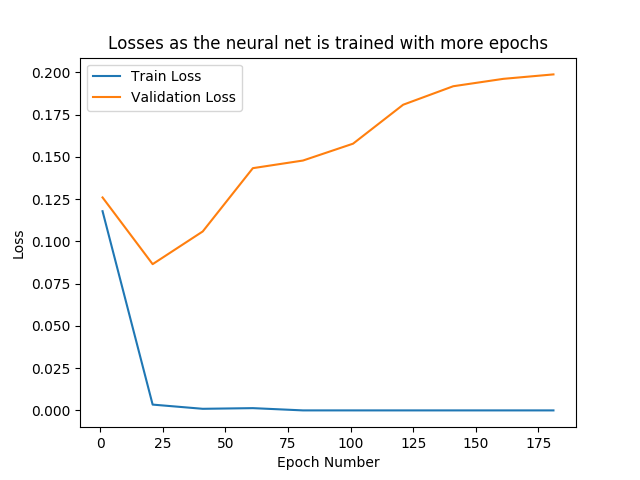
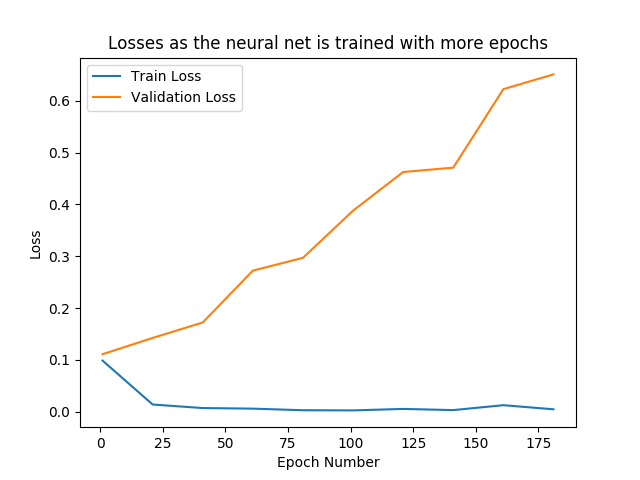
Reproducing increasing perturbed accuracy results by averaging 5 classifiers that are overfitted

diff --git a/new/fgsm_original.py b/new/fgsm_original.py
@@ -5,19 +5,6 @@ import matplotlib.pyplot as plt
 from base_classifier import build_network, calc_loss, evaluation
 from tensorflow.examples.tutorials.mnist import input_data as mnist_data
 
-# Average perturbed accuracy is going up. 
-# Next: Try overfitting more so normal accuracy doesn't go up.
-# Epoch num: 1, perturbed accuracy: 0.3143, normal accuracy: 0.9541 
-# Epoch num: 21, perturbed accuracy: 0.2626, normal accuracy: 0.9768 
-# Epoch num: 41, perturbed accuracy: 0.354, normal accuracy: 0.9789 
-# Epoch num: 61, perturbed accuracy: 0.4321, normal accuracy: 0.9816 
-# Epoch num: 81, perturbed accuracy: 0.4955, normal accuracy: 0.9818 
-# Epoch num: 101, perturbed accuracy: 0.5159, normal accuracy: 0.9829 
-# Epoch num: 121, perturbed accuracy: 0.5196, normal accuracy: 0.983 
-# Epoch num: 141, perturbed accuracy: 0.5262, normal accuracy: 0.9836 
-# Epoch num: 161, perturbed accuracy: 0.5267, normal accuracy: 0.9844 
-# Epoch num: 181, perturbed accuracy: 0.5273, normal accuracy: 0.9844 
-
 # Importing MNIST datasets
 mnist = mnist_data.read_data_sets('MNIST_data', one_hot=True)
 
@@ -78,20 +65,29 @@ def demonstrate_attack_error_rate(epoch_num_start, epoch_num_end, stride, total_
     perturbed_accuracies = []
     normal_accuracies = []
 
-    total_perturbed_accuracy = 0
-    total_normal_accuracy = 0
-
     for epoch_num in range(epoch_num_start, epoch_num_end, stride):
         epoch_nums.append(epoch_num)
+        total_perturbed_accuracy = 0
+        total_normal_accuracy = 0
+
         for round_number in range(total_round_num):
             perturbed_accuracy, normal_accuracy, _ = accuracy_after_fgsm_attack(sample_images, sample_labels, epoch_num, round_number)
+            print("Epoch num: {0}, Round num: {1}, perturbed accuracy: {2}, normal accuracy: {3} ".format
+                (epoch_num, round_number, perturbed_accuracy, normal_accuracy))
+
             total_perturbed_accuracy += perturbed_accuracy
             total_normal_accuracy += normal_accuracy
+
         perturbed_accuracies.append(total_perturbed_accuracy * 1.0 / total_round_num)
         normal_accuracies.append(total_normal_accuracy * 1.0 / total_round_num)
-
-        print("Epoch num: {0}, perturbed accuracy: {1}, normal accuracy: {2} ".format(epoch_num, perturbed_accuracy, normal_accuracy))
-
+        print("Average Summary Epoch num: {0}, perturbed accuracy: {1}, normal accuracy: {2} ".format
+            (
+                epoch_num,
+                total_perturbed_accuracy * 1.0 / total_round_num,
+                total_normal_accuracy * 1.0 / total_round_num
+            )
+        )
+        
     plt.plot(epoch_nums, perturbed_accuracies)
     plt.plot(epoch_nums, normal_accuracies)
     plt.title('FGSM Attack on MNIST Classifier With Various Epoch')
@@ -110,16 +106,6 @@ def demonstrate_zeros_in_perturbation(epoch_num_start, epoch_num_end, stride, to
     zero_elements_num_in_pertubation_list = []
 
     for epoch_num in range(epoch_num_start, epoch_num_end, stride):
-
-        tf.reset_default_graph()
-
-        # Building the graph
-        x = tf.placeholder(tf.float64, [None, input_dimension], name="input")
-        y = tf.placeholder(tf.float64, [None, output_dimension], name="labels")
-        z3, y_, _ = build_network(x, l1, l2, l3)
-        loss = calc_loss(z3, y)
-        accuracy = evaluation(y, y_)
-
         zero_elements_num_in_pertubation = 0
         epoch_nums.append(epoch_num)
         for round_number in range(total_round_num):
@@ -137,5 +123,5 @@ def demonstrate_zeros_in_perturbation(epoch_num_start, epoch_num_end, stride, to
     plt.ylabel('Number of zero values in Perturbation matrix')
     plt.show()
 
-demonstrate_attack_error_rate(101, 200, 20, 5)
-#demonstrate_zeros_in_perturbation()
+#demonstrate_attack_error_rate(101, 200, 20, 5)
+demonstrate_zeros_in_perturbation(101, 200, 20, 5)

diff --git a/new/base_classifier.py b/new/base_classifier.py
@@ -154,13 +154,13 @@ def create_mnist_model(epoch_num_start, epoch_num_end, stride, round_num):
                 for (batch_train_images, batch_train_labels) in\
                     generate_mini_batches(batch_size, shuffled_train_images, shuffled_train_labels):
                         sess.run(train_op,
-                                 feed_dict={x: batch_train_images, y: batch_train_labels, learning_rate: 0.001}) 
+                                 feed_dict={x: batch_train_images, y: batch_train_labels, learning_rate: 0.002}) 
                 print("on epoch number:" + str(epoch_num))
 
                 #Save and report the model every "stride" number of epochs
                 if (epoch_num - epoch_num_start) % stride == 0:
-                    loss_on_valid_set = sess.run(loss, feed_dict={x: mnist.validation.images, y: mnist.validation.labels, learning_rate: 0.001})
-                    loss_on_train_set = sess.run(loss, feed_dict={x: mnist.train.images, y: mnist.train.labels, learning_rate: 0.001})
+                    loss_on_valid_set = sess.run(loss, feed_dict={x: mnist.validation.images, y: mnist.validation.labels, learning_rate: 0.002})
+                    loss_on_train_set = sess.run(loss, feed_dict={x: mnist.train.images, y: mnist.train.labels, learning_rate: 0.002})
                     print("For epoch {0}, the validation loss is {1}".format(epoch_num, loss_on_valid_set))
                     # Save the variables and model to disk.
                     save_path = saver.save(sess, './models/overfitted-' + str(r) + '/original_epoch', global_step=epoch_num)
@@ -243,5 +243,5 @@ def demonstrate_valid_train_loss(epoch_num_start, epoch_num_end, stride, round_n
     plt.show()
 
 #create_mnist_model(1, 200, 20, 5)
-#demonstrate_valid_train_loss(1, 200, 20, 0) # See results saved in averaged_results/train_valid_loss
-calculate_test_accuracy(1, 200, 20, 4)
+#demonstrate_valid_train_loss(1, 200, 20, 4) # See results saved in averaged_results/train_valid_loss
+#calculate_test_accuracy(1, 200, 20, 4)
